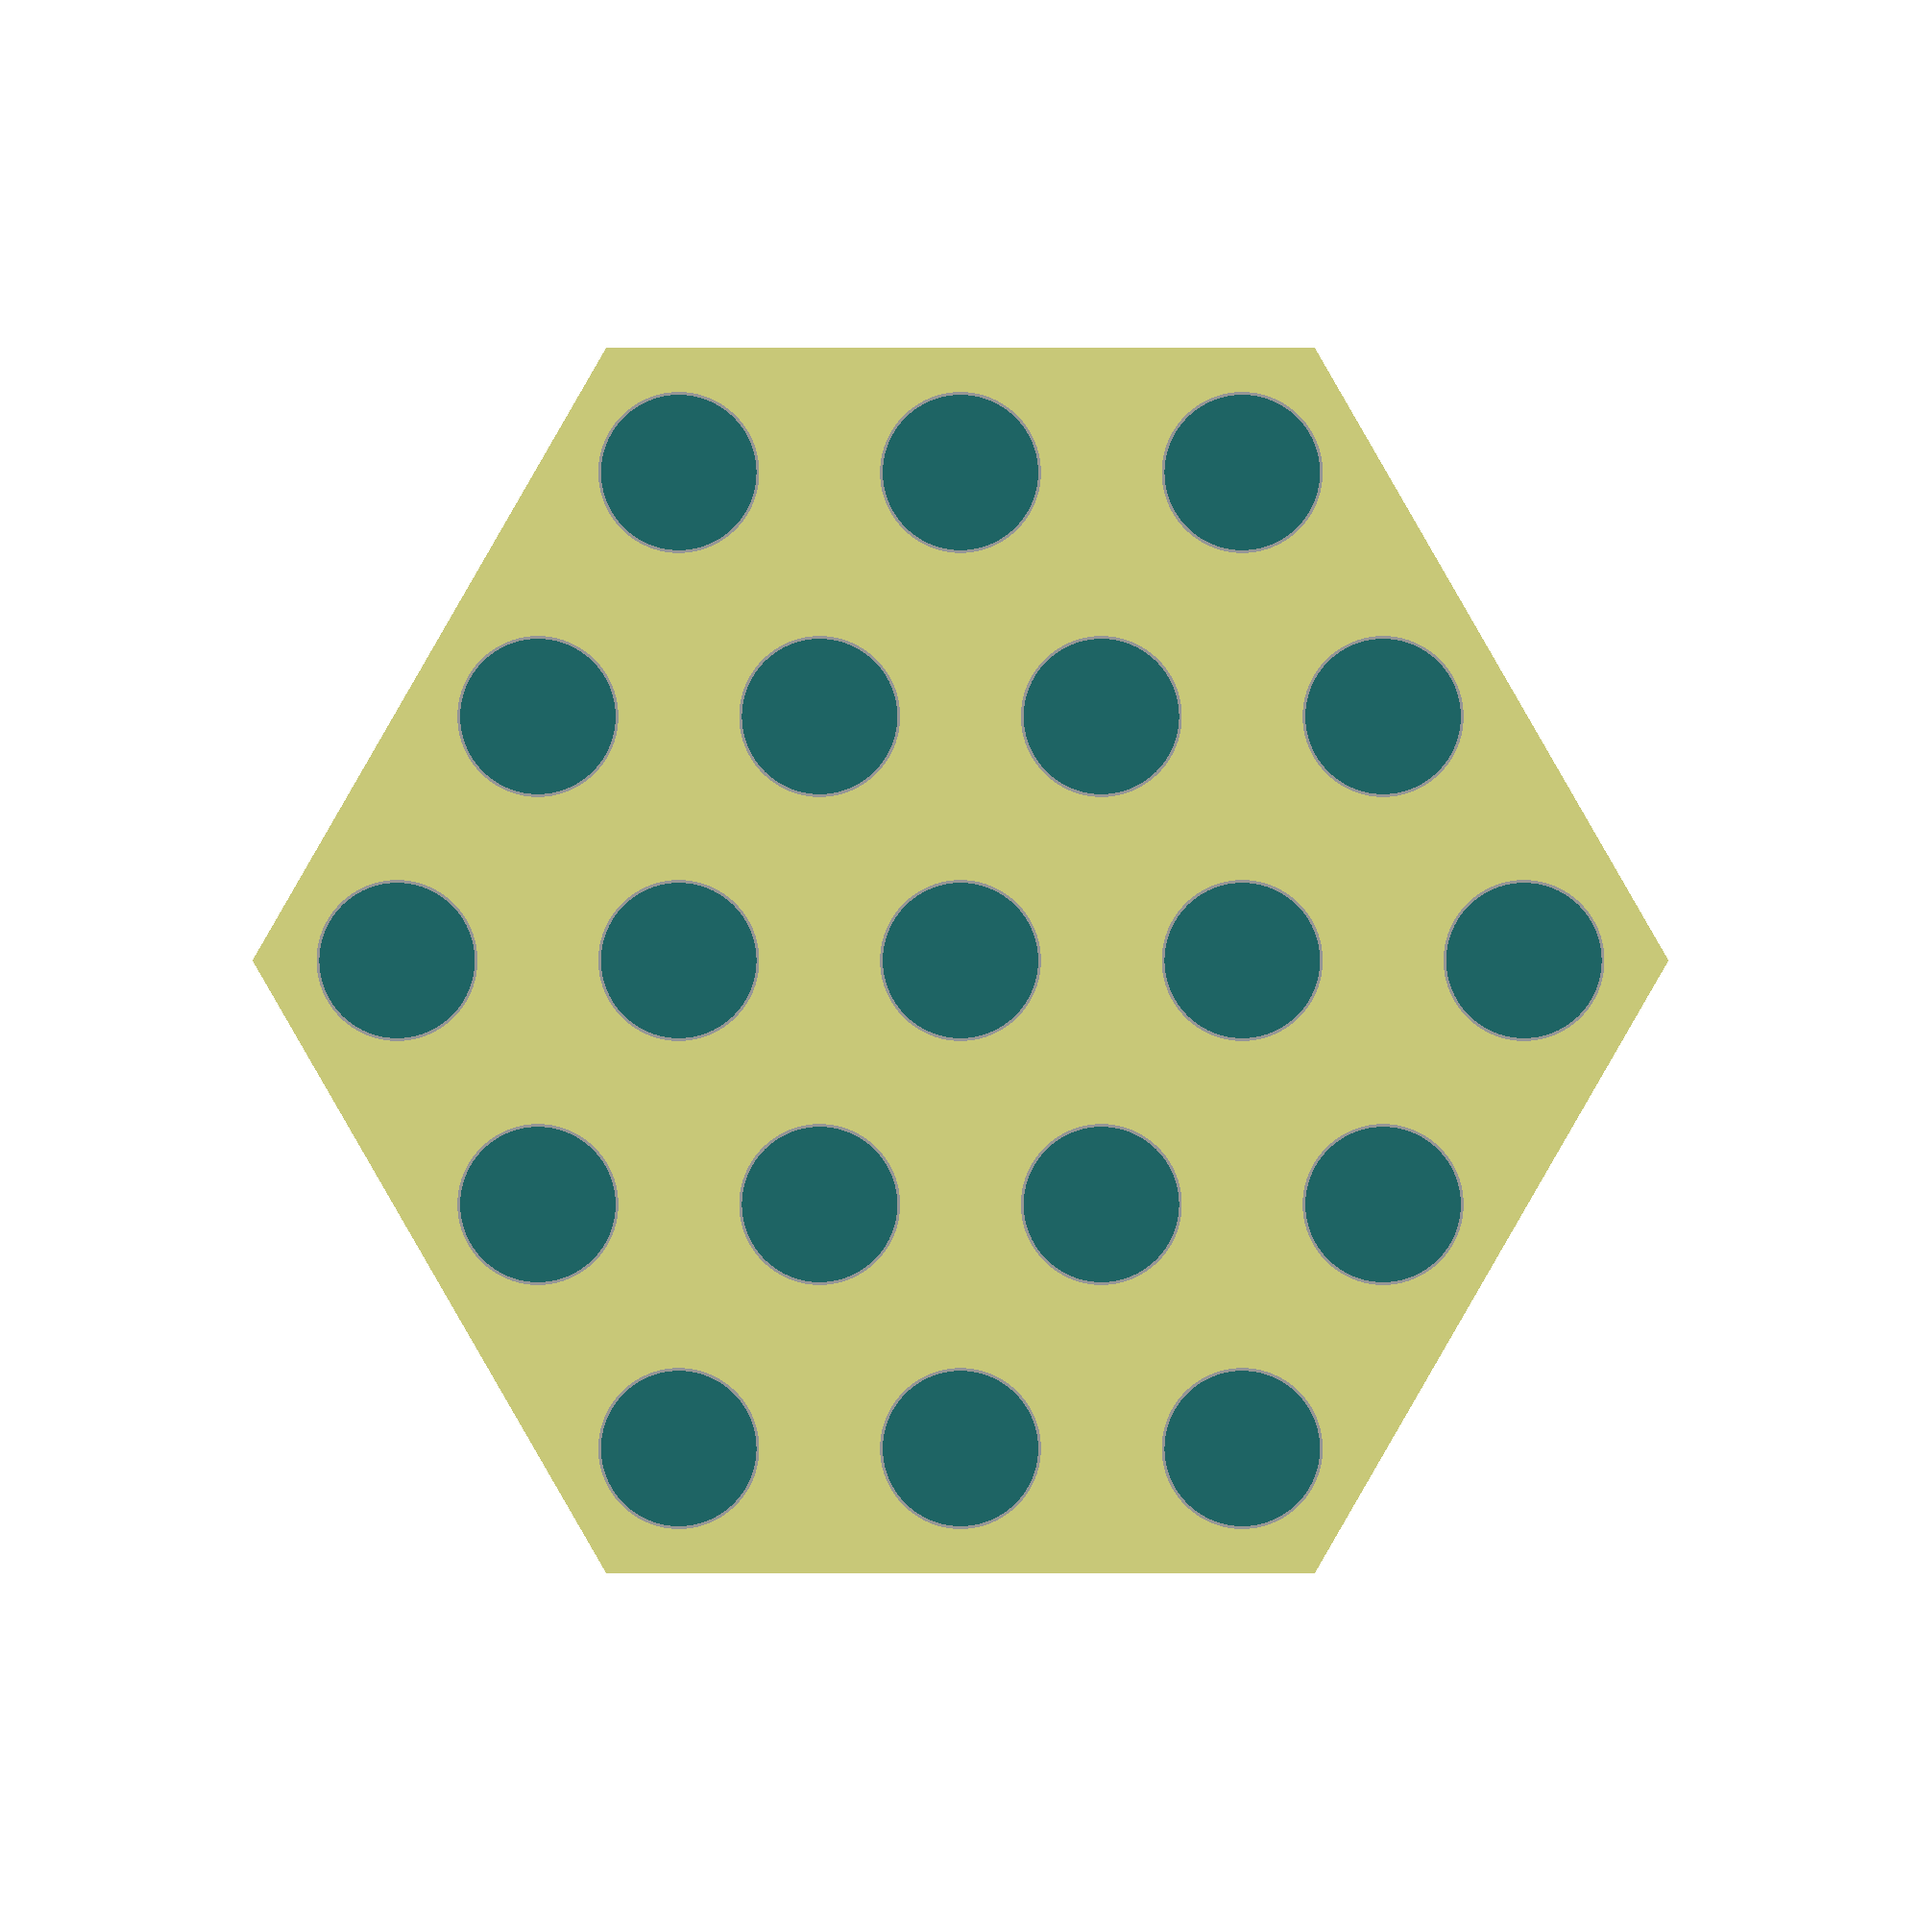
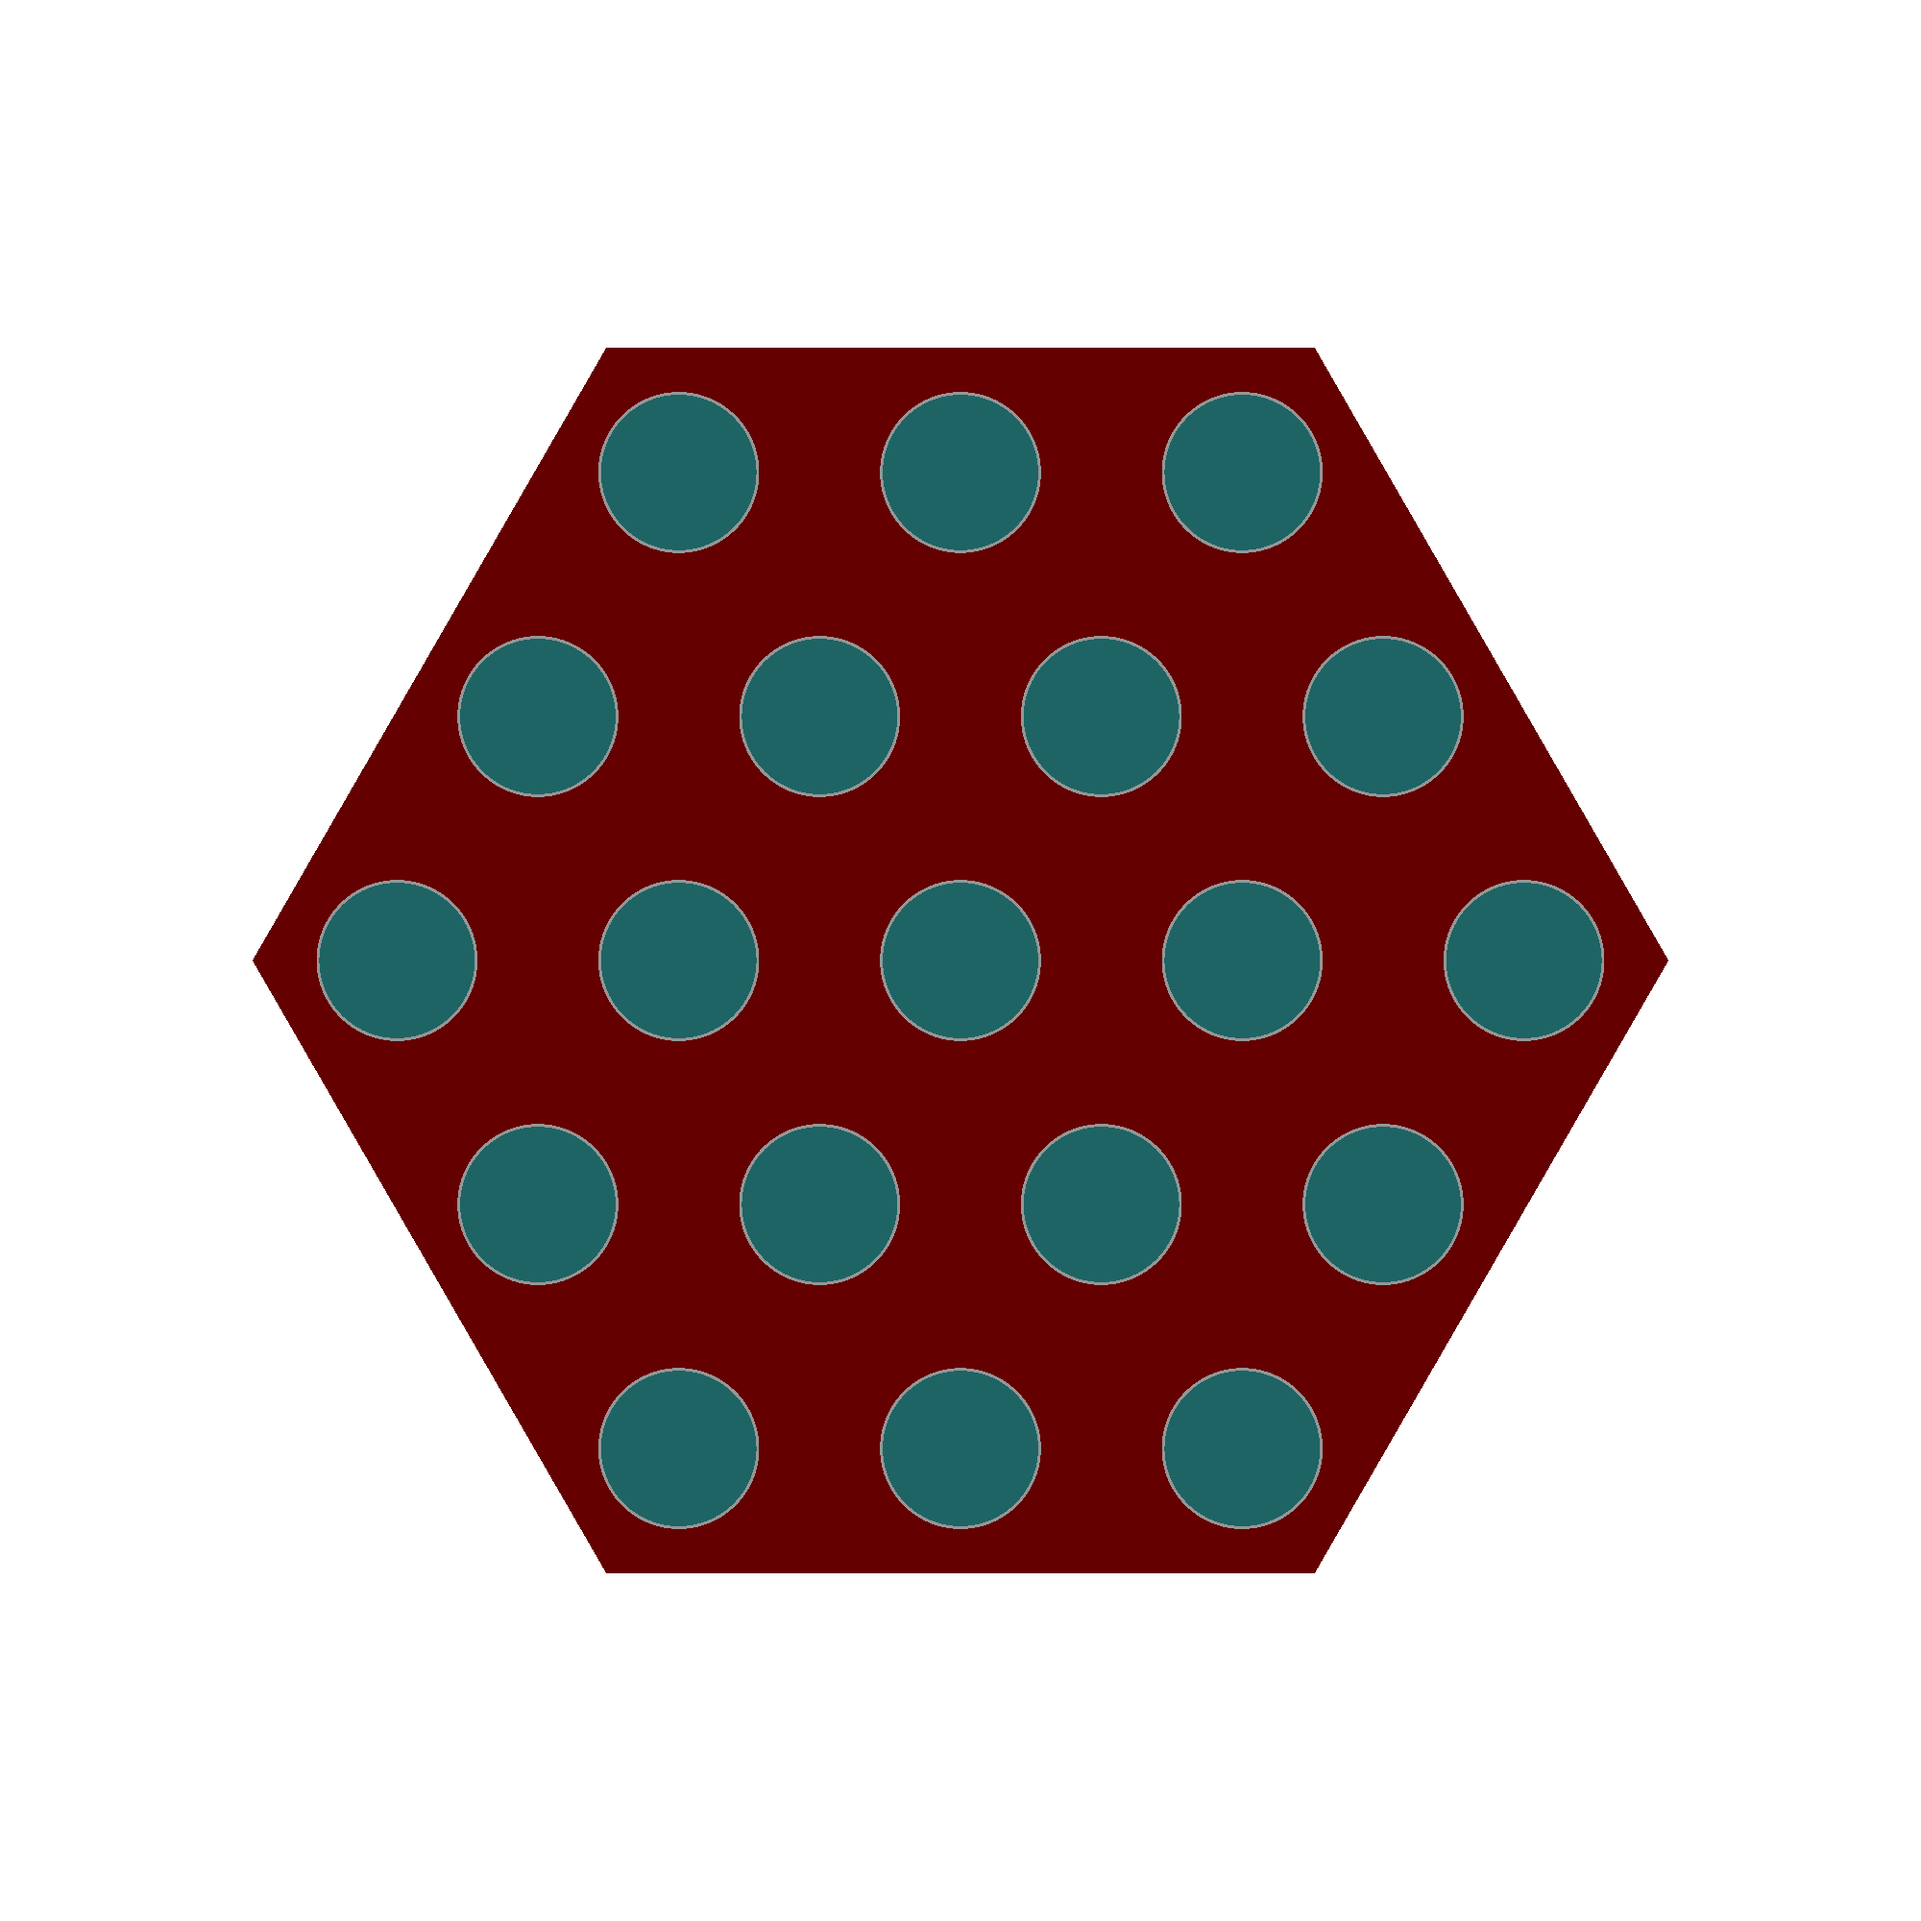
Change fuel color to red.

Changed region(s): [[0.124, 0.155, 0.868, 0.837]]

diff --git a/03_xe_prime_fe/completed/xe_prime_mats.py b/03_xe_prime_fe/completed/xe_prime_mats.py
@@ -324,7 +324,7 @@ fe_loading_codes = {
 
 plotting_colors = {
     prop_mat: (30, 100, 100),
-    code99: (200, 200, 120),
+    code99: (100, 0, 0),
     code89: (100, 200, 120),
     code79: (100, 200, 200),
     code69: (100, 150, 200),

diff --git a/03_xe_prime_fe/xe_prime_mats.py b/03_xe_prime_fe/xe_prime_mats.py
@@ -324,7 +324,7 @@ fe_loading_codes = {
 
 plotting_colors = {
     prop_mat: (30, 100, 100),
-    code99: (200, 200, 120),
+    code99: (100, 0, 0),
     code89: (100, 200, 120),
     code79: (100, 200, 200),
     code69: (100, 150, 200),
